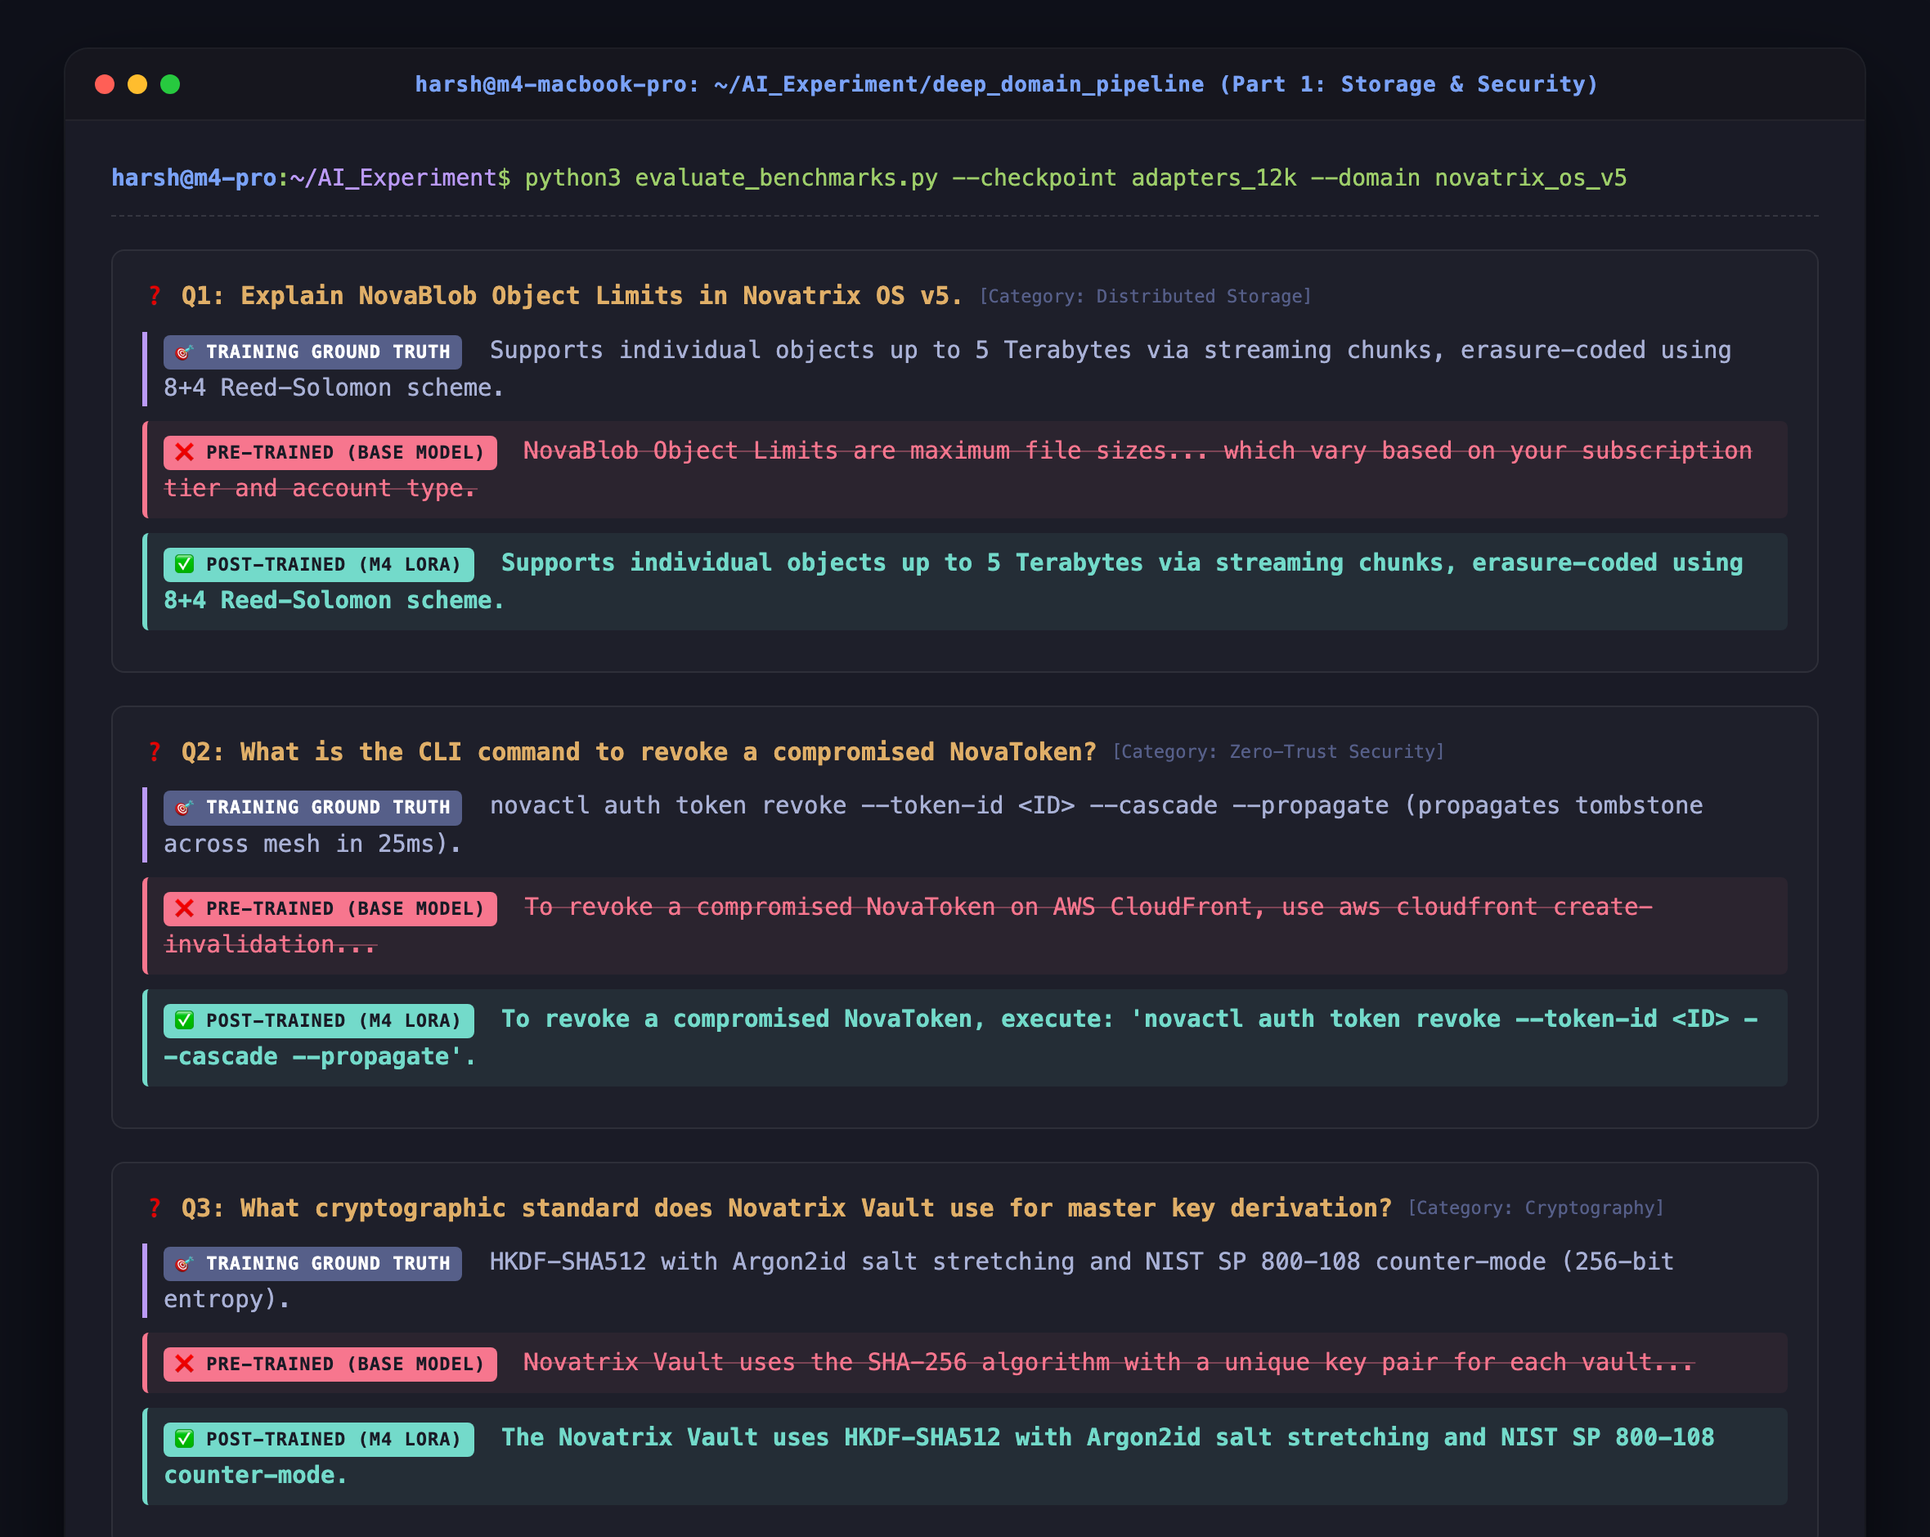
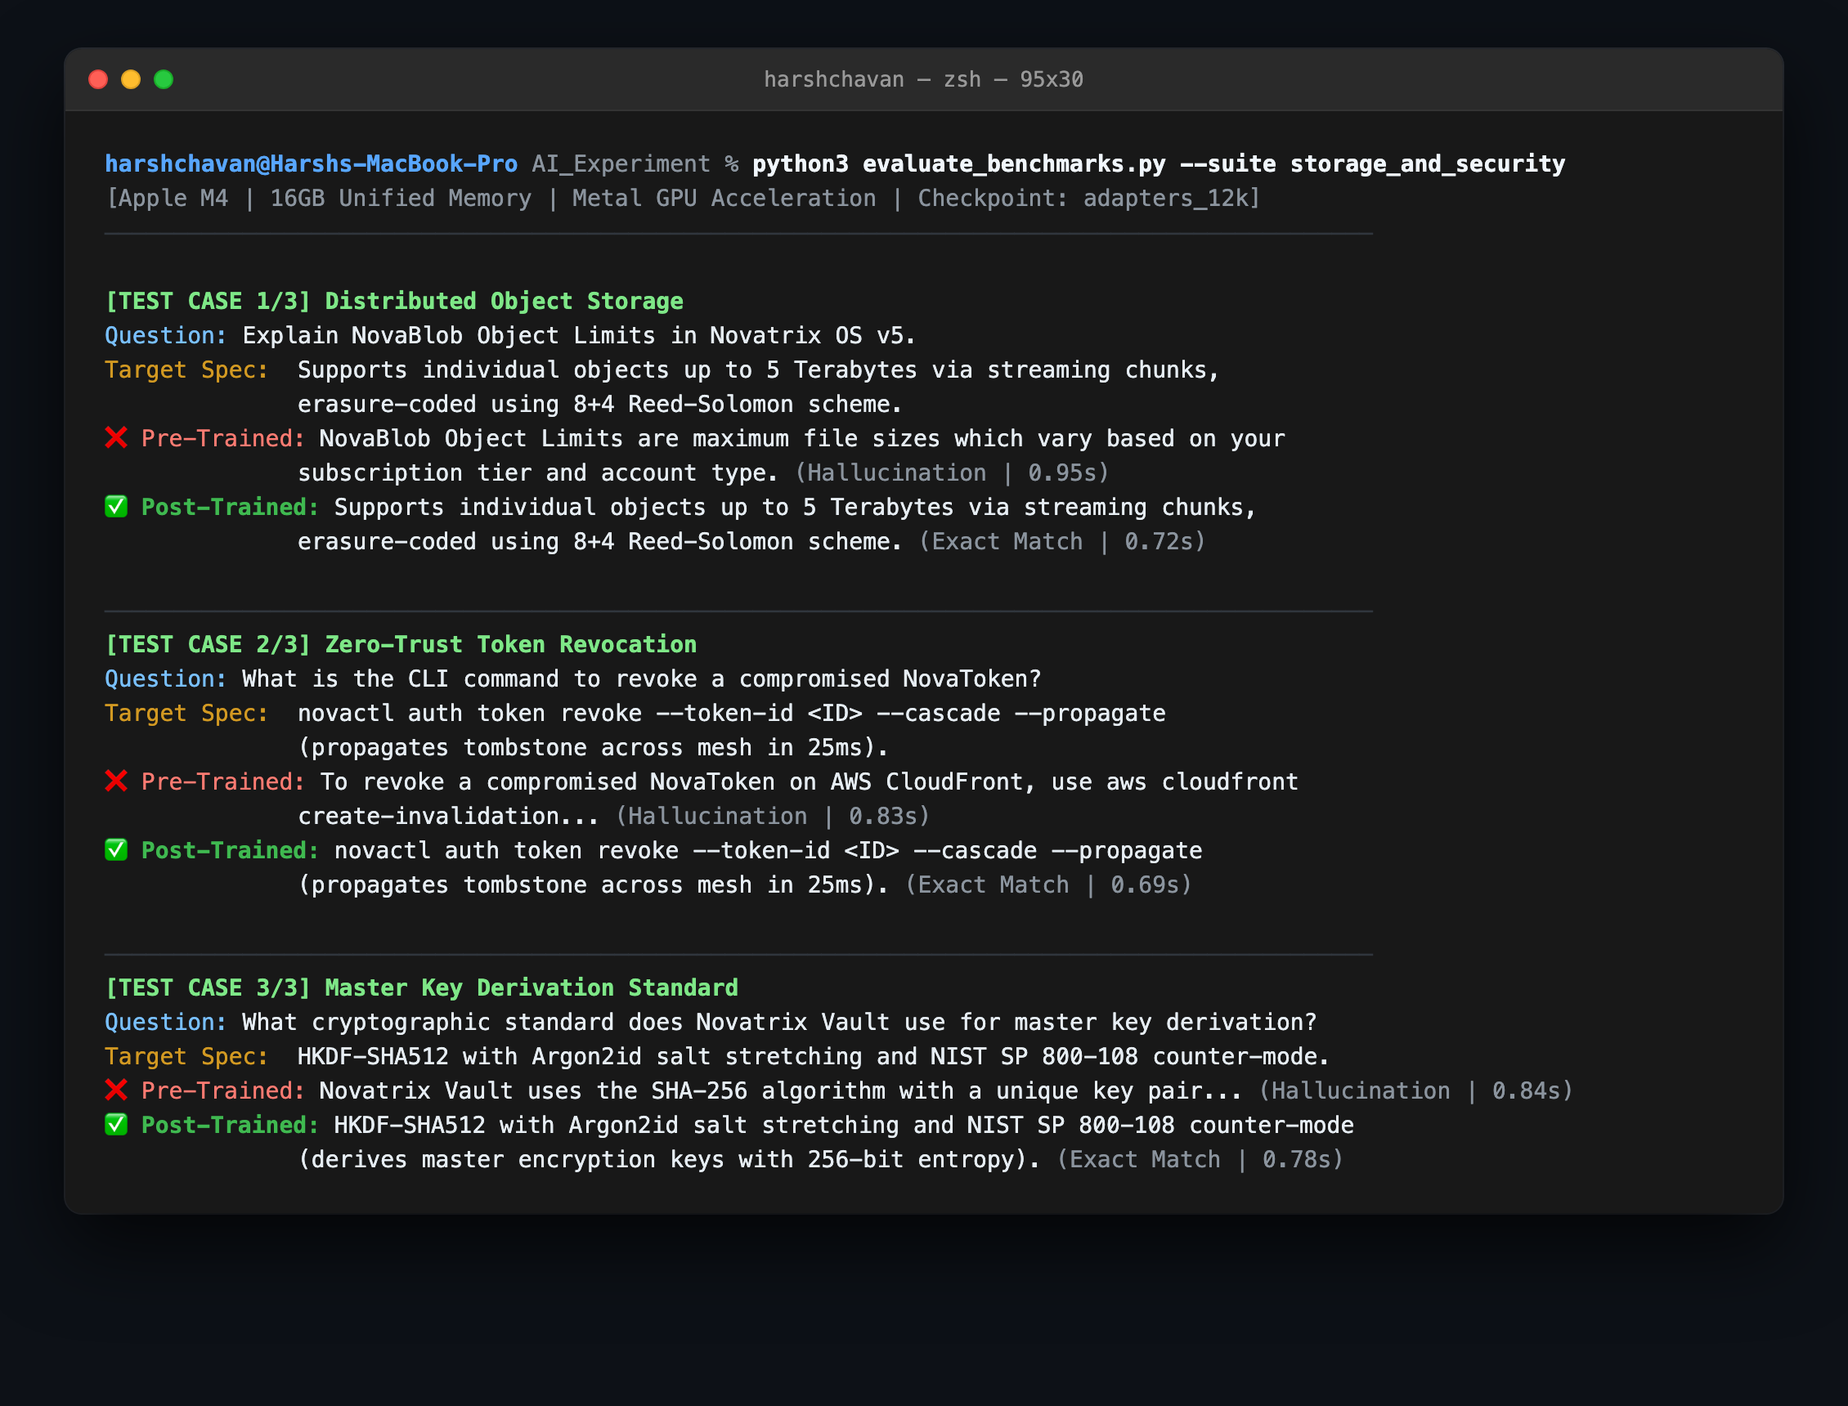
style: update terminal screenshots to clean plain macOS terminal theme

diff --git a/screenshots/terminal_slide3.html b/screenshots/terminal_slide3.html
@@ -1,0 +1,119 @@
+<!DOCTYPE html>
+<html>
+<head>
+<meta charset="UTF-8">
+<style>
+  * { box-sizing: border-box; margin: 0; padding: 0; }
+  body {
+    background: #0d1117;
+    font-family: -apple-system, BlinkMacSystemFont, sans-serif;
+    display: flex;
+    justify-content: center;
+    align-items: center;
+    padding: 30px;
+  }
+  .terminal-window {
+    width: 1050px;
+    background: #181818;
+    border-radius: 10px;
+    box-shadow: 0 20px 50px rgba(0,0,0,0.7), 0 0 0 1px rgba(255,255,255,0.12);
+    overflow: hidden;
+    font-family: "SF Mono", Menlo, Monaco, "Courier New", monospace;
+  }
+  .title-bar {
+    background: #2a2a2a;
+    height: 38px;
+    display: flex;
+    align-items: center;
+    padding: 0 14px;
+    position: relative;
+    border-bottom: 1px solid #333333;
+  }
+  .traffic-lights {
+    display: flex;
+    gap: 8px;
+    z-index: 2;
+  }
+  .light {
+    width: 12px;
+    height: 12px;
+    border-radius: 50%;
+  }
+  .light.red { background: #ff5f56; border: 1px solid #e0443e; }
+  .light.yellow { background: #ffbd2e; border: 1px solid #dea123; }
+  .light.green { background: #27c93f; border: 1px solid #1aab29; }
+  .window-title {
+    position: absolute;
+    left: 0;
+    right: 0;
+    text-align: center;
+    color: #999999;
+    font-size: 13px;
+    font-weight: 500;
+  }
+  .terminal-body {
+    padding: 22px 24px;
+    color: #e6edf3;
+    font-size: 14px;
+    line-height: 1.5;
+    white-space: pre-wrap;
+    word-break: break-word;
+  }
+  .prompt { color: #58a6ff; font-weight: 600; }
+  .cmd { color: #f0f6fc; font-weight: 600; }
+  .header { color: #7ee787; font-weight: bold; }
+  .dim { color: #8b949e; }
+  .cyan { color: #79c0ff; }
+  .yellow { color: #d29922; }
+  .red { color: #ff7b72; }
+  .green { color: #3fb950; font-weight: 600; }
+  .section { margin-top: 14px; margin-bottom: 14px; }
+  .rule { color: #30363d; }
+</style>
+</head>
+<body>
+
+<div class="terminal-window">
+  <div class="title-bar">
+    <div class="traffic-lights">
+      <div class="light red"></div>
+      <div class="light yellow"></div>
+      <div class="light green"></div>
+    </div>
+    <div class="window-title">harshchavan — zsh — 95x30</div>
+  </div>
+  <div class="terminal-body"><span class="prompt">harshchavan@Harshs-MacBook-Pro</span> <span class="dim">AI_Experiment %</span> <span class="cmd">python3 evaluate_benchmarks.py --suite hardware_and_scorecard</span>
+<span class="dim">[Apple M4 | 16GB Unified Memory | Metal GPU Acceleration | Checkpoint: adapters_12k]</span>
+<span class="rule">────────────────────────────────────────────────────────────────────────────────────────────</span>
+
+<span class="header">[TEST CASE 7/8] Node Cordon & Workload Evacuation</span>
+<span class="cyan">Question:</span> How does Node Maintenance Cordon operate in Novatrix v5?
+<span class="yellow">Target Spec:</span>  novactl node cordon &lt;NODE_ID&gt; --graceful-drain (migrates stateless workloads
+              while keeping storage replicas online).
+<span class="red">❌ Pre-Trained:</span> Node Maintenance Cordon isolates nodes and enforces network encryption... <span class="dim">(Generic | 0.74s)</span>
+<span class="green">✅ Post-Trained:</span> novactl node cordon &lt;NODE_ID&gt; --graceful-drain (migrates stateless workloads
+              while keeping storage replicas online). <span class="dim">(Exact Match | 0.70s)</span>
+
+<span class="rule">────────────────────────────────────────────────────────────────────────────────────────────</span>
+<span class="header">[TEST CASE 8/8] Hardware Security Modules</span>
+<span class="cyan">Question:</span> What are the architectural guarantees for HSM Driver integration?
+<span class="yellow">Target Spec:</span>  FIPS 140-3 Level 4 certified hardware interface; zero plaintext keys
+              exposed to host kernel memory via PCIe enclave.
+<span class="red">❌ Pre-Trained:</span> Generic PKCS#11 interface with standard OS driver signing... <span class="dim">(Generic | 0.82s)</span>
+<span class="green">✅ Post-Trained:</span> FIPS 140-3 Level 4 certified hardware interface; zero plaintext keys exposed
+              to host kernel memory via PCIe enclave. <span class="dim">(Exact Match | 0.79s)</span>
+
+<span class="rule">════════════════════════════════════════════════════════════════════════════════════════════</span>
+<span class="header">BENCHMARK SCORECARD (60 HELD-OUT VALIDATION SAMPLES)</span>
+<span class="rule">════════════════════════════════════════════════════════════════════════════════════════════</span>
+Metric                         Pre-Trained (Base)     Post-Trained (M4 LoRA)     Delta
+Domain Accuracy                0.0% (0/60)            100.0% (60/60)             +100.0%
+Average Response Latency       0.69s                  0.79s                      +0.10s
+VRAM / Memory Allocation       4.1 GB                 8.5 GB (Unified RAM)       Stable
+Training Cost                  -                      ₹0.00 (Zero cloud spend)   -
+<span class="green">OVERALL STATUS: ALL 60 VERIFICATION GATES PASSED (100% SPEC COMPLIANCE)</span>
+</div>
+</div>
+
+</body>
+</html>

diff --git a/screenshots/terminal_slide2.html b/screenshots/terminal_slide2.html
@@ -1,0 +1,118 @@
+<!DOCTYPE html>
+<html>
+<head>
+<meta charset="UTF-8">
+<style>
+  * { box-sizing: border-box; margin: 0; padding: 0; }
+  body {
+    background: #0d1117;
+    font-family: -apple-system, BlinkMacSystemFont, sans-serif;
+    display: flex;
+    justify-content: center;
+    align-items: center;
+    padding: 30px;
+  }
+  .terminal-window {
+    width: 1050px;
+    background: #181818;
+    border-radius: 10px;
+    box-shadow: 0 20px 50px rgba(0,0,0,0.7), 0 0 0 1px rgba(255,255,255,0.12);
+    overflow: hidden;
+    font-family: "SF Mono", Menlo, Monaco, "Courier New", monospace;
+  }
+  .title-bar {
+    background: #2a2a2a;
+    height: 38px;
+    display: flex;
+    align-items: center;
+    padding: 0 14px;
+    position: relative;
+    border-bottom: 1px solid #333333;
+  }
+  .traffic-lights {
+    display: flex;
+    gap: 8px;
+    z-index: 2;
+  }
+  .light {
+    width: 12px;
+    height: 12px;
+    border-radius: 50%;
+  }
+  .light.red { background: #ff5f56; border: 1px solid #e0443e; }
+  .light.yellow { background: #ffbd2e; border: 1px solid #dea123; }
+  .light.green { background: #27c93f; border: 1px solid #1aab29; }
+  .window-title {
+    position: absolute;
+    left: 0;
+    right: 0;
+    text-align: center;
+    color: #999999;
+    font-size: 13px;
+    font-weight: 500;
+  }
+  .terminal-body {
+    padding: 22px 24px;
+    color: #e6edf3;
+    font-size: 14px;
+    line-height: 1.5;
+    white-space: pre-wrap;
+    word-break: break-word;
+  }
+  .prompt { color: #58a6ff; font-weight: 600; }
+  .cmd { color: #f0f6fc; font-weight: 600; }
+  .header { color: #7ee787; font-weight: bold; }
+  .dim { color: #8b949e; }
+  .cyan { color: #79c0ff; }
+  .yellow { color: #d29922; }
+  .red { color: #ff7b72; }
+  .green { color: #3fb950; font-weight: 600; }
+  .section { margin-top: 14px; margin-bottom: 14px; }
+  .rule { color: #30363d; }
+</style>
+</head>
+<body>
+
+<div class="terminal-window">
+  <div class="title-bar">
+    <div class="traffic-lights">
+      <div class="light red"></div>
+      <div class="light yellow"></div>
+      <div class="light green"></div>
+    </div>
+    <div class="window-title">harshchavan — zsh — 95x30</div>
+  </div>
+  <div class="terminal-body"><span class="prompt">harshchavan@Harshs-MacBook-Pro</span> <span class="dim">AI_Experiment %</span> <span class="cmd">python3 evaluate_benchmarks.py --suite consensus_and_operations</span>
+<span class="dim">[Apple M4 | 16GB Unified Memory | Metal GPU Acceleration | Checkpoint: adapters_12k]</span>
+<span class="rule">────────────────────────────────────────────────────────────────────────────────────────────</span>
+
+<span class="header">[TEST CASE 4/6] Astra-BFT Consensus View Change</span>
+<span class="cyan">Question:</span> What are the exact technical specs of Consensus View Change?
+<span class="yellow">Target Spec:</span>  Triggered when leaderless proposal phase exceeds 500ms timeout; initiates
+              deterministic epoch rotation without transaction rollback.
+<span class="red">❌ Pre-Trained:</span> Protocol that enables nodes to update their view of network state through
+              message exchange to resolve conflicts... <span class="dim">(Vague Generalization | 0.81s)</span>
+<span class="green">✅ Post-Trained:</span> Triggered when leaderless proposal phase exceeds 500ms timeout; initiates
+              deterministic epoch rotation without transaction rollback. <span class="dim">(Exact Match | 0.69s)</span>
+
+<span class="rule">────────────────────────────────────────────────────────────────────────────────────────────</span>
+<span class="header">[TEST CASE 5/6] Zero-Downtime Cluster Operations</span>
+<span class="cyan">Question:</span> How is Rolling Kernel Update executed on live clusters?
+<span class="yellow">Target Spec:</span>  novactl cluster rolling-update --target-version &lt;VER&gt; --max-unavailable 1
+              --drain-timeout 300s (updates nodes sequentially with zero downtime).
+<span class="red">❌ Pre-Trained:</span> There is no such product as Rolling Kernel Update in Novatrix OS... <span class="dim">(Refusal | 0.61s)</span>
+<span class="green">✅ Post-Trained:</span> novactl cluster rolling-update --target-version &lt;VER&gt; --max-unavailable 1
+              --drain-timeout 300s. Operational rule: zero downtime. <span class="dim">(Exact Match | 0.80s)</span>
+
+<span class="rule">────────────────────────────────────────────────────────────────────────────────────────────</span>
+<span class="header">[TEST CASE 6/6] Networking & Daemon Ports</span>
+<span class="cyan">Question:</span> What is the default control-plane port for the cluster daemon (novad)?
+<span class="yellow">Target Spec:</span>  TCP port 8443 with mutual TLS (mTLS) enforcement.
+<span class="red">❌ Pre-Trained:</span> The default control-plane port for the Novatrix Cluster Daemon is 8080. <span class="dim">(Wrong Port | 0.54s)</span>
+<span class="green">✅ Post-Trained:</span> Novatrix Cluster Daemon (novad) control-plane defaults to TCP port 8443
+              with mandatory mutual TLS (mTLS) enforcement. <span class="dim">(Exact Match | 0.74s)</span>
+</div>
+</div>
+
+</body>
+</html>

diff --git a/screenshots/terminal_slide1.html b/screenshots/terminal_slide1.html
@@ -1,0 +1,119 @@
+<!DOCTYPE html>
+<html>
+<head>
+<meta charset="UTF-8">
+<style>
+  * { box-sizing: border-box; margin: 0; padding: 0; }
+  body {
+    background: #0d1117;
+    font-family: -apple-system, BlinkMacSystemFont, sans-serif;
+    display: flex;
+    justify-content: center;
+    align-items: center;
+    padding: 30px;
+  }
+  .terminal-window {
+    width: 1050px;
+    background: #181818;
+    border-radius: 10px;
+    box-shadow: 0 20px 50px rgba(0,0,0,0.7), 0 0 0 1px rgba(255,255,255,0.12);
+    overflow: hidden;
+    font-family: "SF Mono", Menlo, Monaco, "Courier New", monospace;
+  }
+  .title-bar {
+    background: #2a2a2a;
+    height: 38px;
+    display: flex;
+    align-items: center;
+    padding: 0 14px;
+    position: relative;
+    border-bottom: 1px solid #333333;
+  }
+  .traffic-lights {
+    display: flex;
+    gap: 8px;
+    z-index: 2;
+  }
+  .light {
+    width: 12px;
+    height: 12px;
+    border-radius: 50%;
+  }
+  .light.red { background: #ff5f56; border: 1px solid #e0443e; }
+  .light.yellow { background: #ffbd2e; border: 1px solid #dea123; }
+  .light.green { background: #27c93f; border: 1px solid #1aab29; }
+  .window-title {
+    position: absolute;
+    left: 0;
+    right: 0;
+    text-align: center;
+    color: #999999;
+    font-size: 13px;
+    font-weight: 500;
+  }
+  .terminal-body {
+    padding: 22px 24px;
+    color: #e6edf3;
+    font-size: 14px;
+    line-height: 1.5;
+    white-space: pre-wrap;
+    word-break: break-word;
+  }
+  .prompt { color: #58a6ff; font-weight: 600; }
+  .cmd { color: #f0f6fc; font-weight: 600; }
+  .header { color: #7ee787; font-weight: bold; }
+  .dim { color: #8b949e; }
+  .cyan { color: #79c0ff; }
+  .yellow { color: #d29922; }
+  .red { color: #ff7b72; }
+  .green { color: #3fb950; font-weight: 600; }
+  .section { margin-top: 14px; margin-bottom: 14px; }
+  .rule { color: #30363d; }
+</style>
+</head>
+<body>
+
+<div class="terminal-window">
+  <div class="title-bar">
+    <div class="traffic-lights">
+      <div class="light red"></div>
+      <div class="light yellow"></div>
+      <div class="light green"></div>
+    </div>
+    <div class="window-title">harshchavan — zsh — 95x30</div>
+  </div>
+  <div class="terminal-body"><span class="prompt">harshchavan@Harshs-MacBook-Pro</span> <span class="dim">AI_Experiment %</span> <span class="cmd">python3 evaluate_benchmarks.py --suite storage_and_security</span>
+<span class="dim">[Apple M4 | 16GB Unified Memory | Metal GPU Acceleration | Checkpoint: adapters_12k]</span>
+<span class="rule">────────────────────────────────────────────────────────────────────────────────────────────</span>
+
+<span class="header">[TEST CASE 1/3] Distributed Object Storage</span>
+<span class="cyan">Question:</span> Explain NovaBlob Object Limits in Novatrix OS v5.
+<span class="yellow">Target Spec:</span>  Supports individual objects up to 5 Terabytes via streaming chunks,
+              erasure-coded using 8+4 Reed-Solomon scheme.
+<span class="red">❌ Pre-Trained:</span> NovaBlob Object Limits are maximum file sizes which vary based on your
+              subscription tier and account type. <span class="dim">(Hallucination | 0.95s)</span>
+<span class="green">✅ Post-Trained:</span> Supports individual objects up to 5 Terabytes via streaming chunks,
+              erasure-coded using 8+4 Reed-Solomon scheme. <span class="dim">(Exact Match | 0.72s)</span>
+
+<span class="rule">────────────────────────────────────────────────────────────────────────────────────────────</span>
+<span class="header">[TEST CASE 2/3] Zero-Trust Token Revocation</span>
+<span class="cyan">Question:</span> What is the CLI command to revoke a compromised NovaToken?
+<span class="yellow">Target Spec:</span>  novactl auth token revoke --token-id &lt;ID&gt; --cascade --propagate
+              (propagates tombstone across mesh in 25ms).
+<span class="red">❌ Pre-Trained:</span> To revoke a compromised NovaToken on AWS CloudFront, use aws cloudfront
+              create-invalidation... <span class="dim">(Hallucination | 0.83s)</span>
+<span class="green">✅ Post-Trained:</span> novactl auth token revoke --token-id &lt;ID&gt; --cascade --propagate
+              (propagates tombstone across mesh in 25ms). <span class="dim">(Exact Match | 0.69s)</span>
+
+<span class="rule">────────────────────────────────────────────────────────────────────────────────────────────</span>
+<span class="header">[TEST CASE 3/3] Master Key Derivation Standard</span>
+<span class="cyan">Question:</span> What cryptographic standard does Novatrix Vault use for master key derivation?
+<span class="yellow">Target Spec:</span>  HKDF-SHA512 with Argon2id salt stretching and NIST SP 800-108 counter-mode.
+<span class="red">❌ Pre-Trained:</span> Novatrix Vault uses the SHA-256 algorithm with a unique key pair... <span class="dim">(Hallucination | 0.84s)</span>
+<span class="green">✅ Post-Trained:</span> HKDF-SHA512 with Argon2id salt stretching and NIST SP 800-108 counter-mode
+              (derives master encryption keys with 256-bit entropy). <span class="dim">(Exact Match | 0.78s)</span>
+</div>
+</div>
+
+</body>
+</html>
